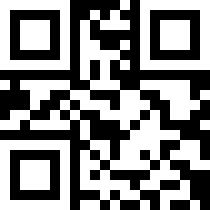
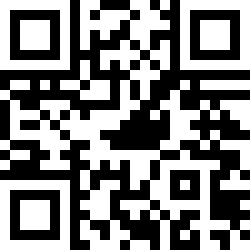
input for display

diff --git a/Code/QR Code/qr.c b/Code/QR Code/qr.c
@@ -3,8 +3,10 @@
 #include "qrcodegen.h"
 #include <stdlib.h>
 #include "TinyPngOut.h"
+#include <string.h>
 
 #define SCALE 10
+#define QR_MAX_INPUT_LENGTH 2953
 
 int main()
 {
@@ -12,8 +14,12 @@ int main()
     uint8_t qr[qrcodegen_BUFFER_LEN_MAX];
     uint8_t tempBuffer[qrcodegen_BUFFER_LEN_MAX];
 
+    char inputText[QR_MAX_INPUT_LENGTH];
+    memset(inputText, 0, QR_MAX_INPUT_LENGTH);
+    fgets(inputText, QR_MAX_INPUT_LENGTH, stdin);
+
     bool ok = qrcodegen_encodeText(
-        "Hello, world!",
+        inputText,
         tempBuffer,
         qr,
         qrcodegen_Ecc_MEDIUM,
@@ -35,7 +41,7 @@ int main()
 
     // qr codes are square -> one int is enough to tell the size
     int size = qrcodegen_getSize(qr);
-    printf("Size is: %d\n", size);
+    // printf("Size is: %d\n", size);
 
     struct TinyPngOut writer;
     enum TinyPngOut_Status init_status = TinyPngOut_init(&writer, size * SCALE, size * SCALE, file);
@@ -59,5 +65,6 @@ int main()
         }
     }
 
+    printf("A QR code has been generated: out.png\n");
     return 0;
 }
